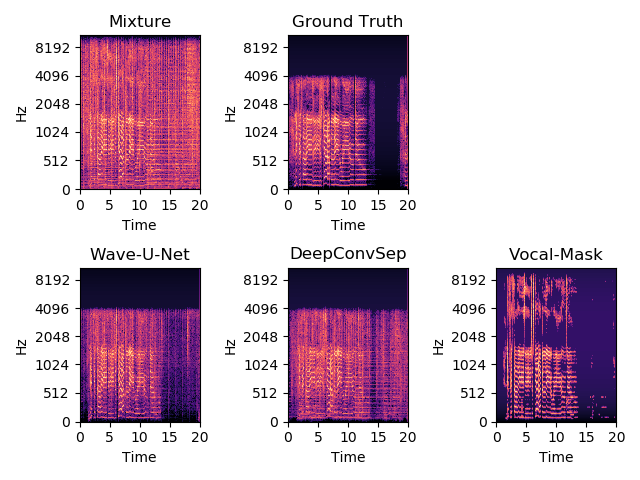
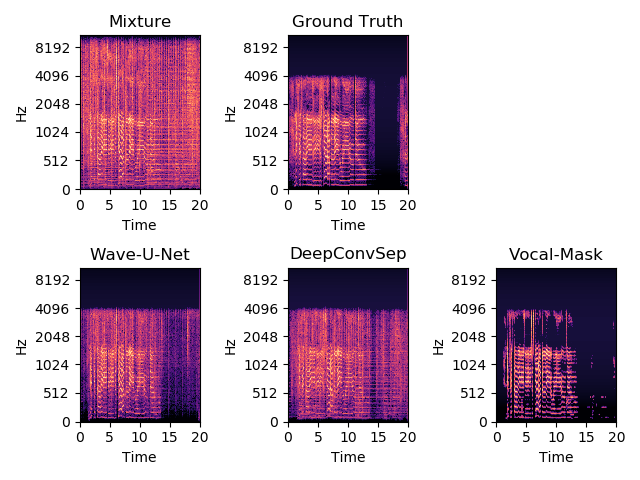
update spectrogram diagrams

diff --git a/README.md b/README.md
@@ -14,7 +14,7 @@ We initially considered a WaveNet based approach [1], but since the models were 
 
 Our first attempt used **Mel-scale Spectrograms**, which apply a transformation matrix to the STFT to group and weight frequency bins according to the [Mel scale](https://en.wikipedia.org/wiki/Mel_scale). This evens out the spectrogram magnitudes across the frequency range. Without this, the lower freqencies tend to have much higher magnitudes than the higher frequencies, especially in recorded music. However, it is hard to recover the audio from a Mel-scale spectrogram, so this was abandoned in favor of using the same method as DeepConvSep. However, additional steps were taken in preprocessing. 
 
-The input stereo signal was converted to mono by averaging the left and right channels. The mono signal was passed through a [preemphasis filter](https://en.wikipedia.org/wiki/Preemphasis_improvement) to enhance the signal-to-noise ratio of high-frequency content. We applied [Mel perceptual weighting](https://librosa.github.io/librosa/generated/librosa.core.perceptual_weighting.html) to the input spectrograms to take advantage of the Mel scale. Then a power factor of 2 was applied to the spectrogram to further enhance the signal-to-noise ratio. After the mask is generated by the model, the mask is applied to the unweighted spectrogram and the audio recovered via inverse STFT. Using the full STFT preserves the phasing information of the original audio and is necessary for producing high quality target waveform estimations. However, the phasing information does not get passed into the model, which is one advancement that the Wave-U-Net model made use of by operating in the waveform domain.  
+The input stereo signal was converted to mono by averaging the left and right channels. We applied [Mel perceptual weighting](https://librosa.github.io/librosa/generated/librosa.core.perceptual_weighting.html) to the input spectrograms to even out the magnitudes across the frequency range. Then a power factor of 2 was applied to the spectrogram to further enhance the signal-to-noise ratio. After the mask is generated by the model, the mask is applied to the unweighted spectrogram and the audio recovered via inverse STFT. Using the full STFT preserves the phasing information of the original audio and is necessary for producing high quality target waveform estimations. However, the phasing information does not get passed into the model, which is one advancement that the Wave-U-Net model made use of by operating in the waveform domain.  
 
 #### Model Approach  
 
@@ -30,7 +30,7 @@ For the vocal spectrogram, only the center column of the image is kept. This is 
 | Wave-U-Net | 9.21s | 1.02s |
 | Vocal-Mask | 290ms | 11.6ms |
 
-Different window sizes of the receptive field for the input spectrogram were tested. Intuitively, larger windows give the network more context for making the prediction. We found that larger window sizes did indeed produce smaller losses, but at a diminishing rate. Larger window sizes also increased GPU memory consumption, so we decided to stay consistent with the window size used by DeepConvSep (25 stft frames ~ 290ms).  
+The receptive field is the length of the input waveform that the model processes at a time, while the target field is the length of the output generated by the model. Different window sizes of the receptive field for the input spectrogram were tested. Intuitively, larger windows give the network more context for making the prediction. We found that larger window sizes did indeed produce smaller losses, but at a diminishing rate. Larger window sizes also increased GPU memory consumption, so we decided to stay consistent with the window size used by DeepConvSep (25 stft frames ~ 290ms).  
 
 <p align="center">
     <img src="assets/window_sizes_train.png" width="45%"/> <img src="assets/window_sizes_valid.png" width="45%"/>
@@ -137,12 +137,13 @@ Note: The Ground Truth, Wave-U-Net, and DeepConvSep samples have lower sample ra
 
 ### Quantitative Comparisons
 
-Below are quantitative evaluations of the signal and separation quality based on [BSS Eval](https://github.com/sigsep/sigsep-mus-eval) metrics. Shown are the median SDR values when applying the model to the MusDB18 test set. Higher values indicate better separation and signal quality. For the Vocal-Mask model, two methods were evaluated for applying the mask. The first method was with a hard binary mask with 0.5 as the cutoff threshold for vocal content. The second method was using a soft mask with a noise gate at 0.1 such that all values below 0.1 were considered silent.  
+Below are quantitative evaluations of the signal and separation quality based on [BSS Eval](https://github.com/sigsep/sigsep-mus-eval) metrics. Shown are the median SDR (Source-to-Distortion Ratio), SIR (Source-to-Inteferences Ratio), and SAR (Source-to-Artifacts Ratio) values when applying the model to the MusDB18 test set. Higher values indicate better separation and signal quality. For the Vocal-Mask model, two methods were evaluated for applying the mask. The first method was with a hard binary mask with 0.5 as the cutoff threshold for vocal content. The second method was using a soft mask with a noise gate at 0.1 such that all values below 0.1 were considered silent.  
 
 | Model | SDR | SIR | SAR |
 |-------|-----|-----|-----|
 | DeepConvSep | 2.37 | 4.65 | 8.04 |
 | Wave-U-Net | 4.60 | 14.30 | 5.54 |
+| Vocal-Mask (Hard Mask) | 3.46 | 13.88 | 4.34 |
 | Vocal-Mask (Soft Mask) | 3.66 | 11.90 | 5.18 |
 
 ## Discussion  
